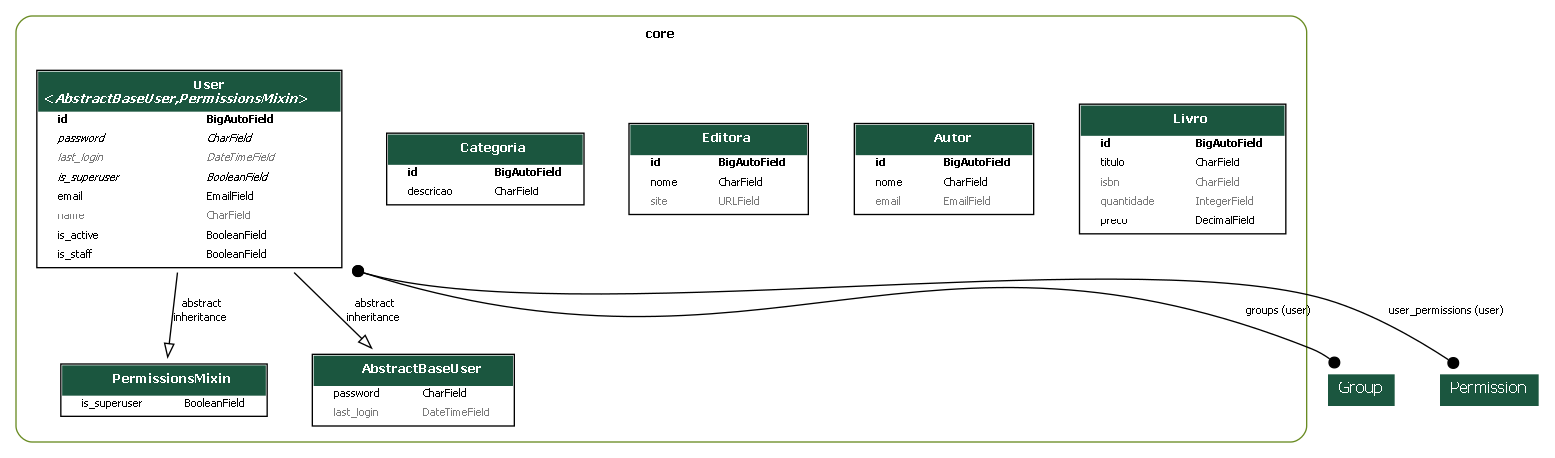
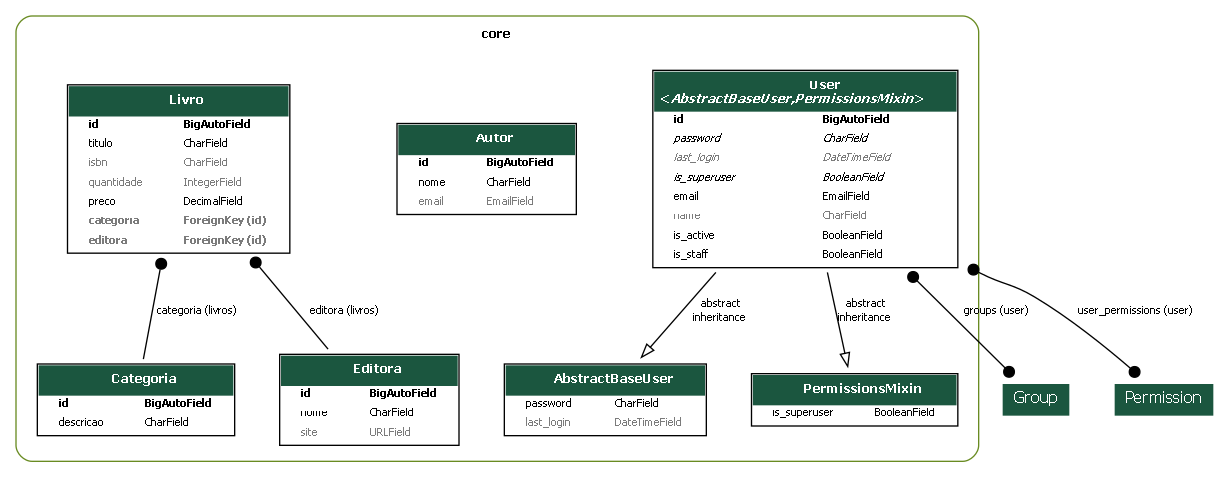
feat: inclusão do relacionamento de Livro com Categoria e Editora

Changed region(s): [[0.0, 0.0306, 0.9894, 0.9782], [0.3401, 0.6725, 0.4947, 0.7031]]

diff --git a/core/migrations/0010_livro_categoria_livro_editora.py b/core/migrations/0010_livro_categoria_livro_editora.py
@@ -1,0 +1,24 @@
+# Generated by Django 5.2.12 on 2026-06-25 14:17
+
+import django.db.models.deletion
+from django.db import migrations, models
+
+
+class Migration(migrations.Migration):
+
+    dependencies = [
+        ('core', '0009_livro'),
+    ]
+
+    operations = [
+        migrations.AddField(
+            model_name='livro',
+            name='categoria',
+            field=models.ForeignKey(blank=True, null=True, on_delete=django.db.models.deletion.PROTECT, related_name='livros', to='core.categoria'),
+        ),
+        migrations.AddField(
+            model_name='livro',
+            name='editora',
+            field=models.ForeignKey(blank=True, null=True, on_delete=django.db.models.deletion.PROTECT, related_name='livros', to='core.editora'),
+        ),
+    ]

diff --git a/core/models/livro.py b/core/models/livro.py
@@ -1,11 +1,16 @@
 from django.db import models
 
+from .categoria import Categoria
+from .editora import Editora
+
 
 class Livro(models.Model):
     titulo = models.CharField(max_length=255)
     isbn = models.CharField(max_length=32, null=True, blank=True)
     quantidade = models.IntegerField(default=0, null=True, blank=True)
     preco = models.DecimalField(max_digits=7, decimal_places=2, default=0)
+    categoria = models.ForeignKey(Categoria, on_delete=models.PROTECT, related_name='livros', null=True, blank=True)
+    editora = models.ForeignKey(Editora, on_delete=models.PROTECT, related_name='livros', null=True, blank=True)
 
     def __str__(self):
         return f'({self.id}) {self.titulo} ({self.quantidade})'
